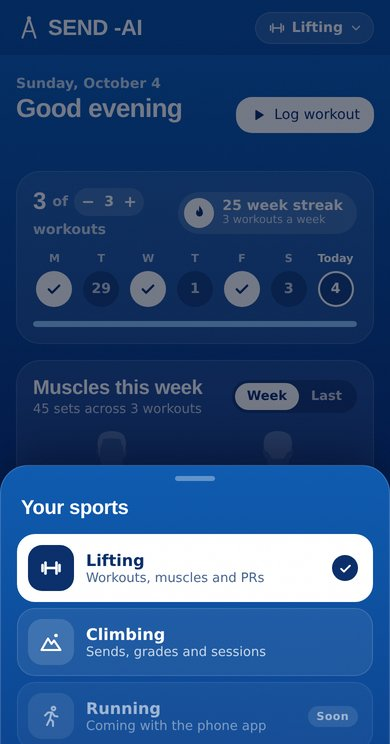
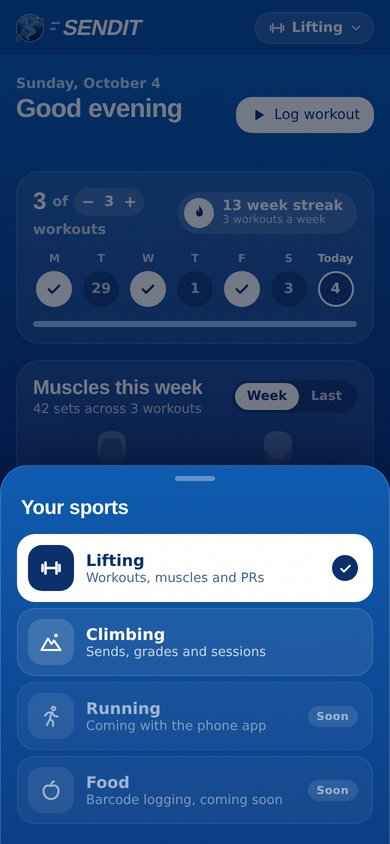
Refresh README screenshots, use the SendIt name and add the architecture diagram (#16)
* Refresh README screenshots and use the SendIt name

Claude-Session: https://claude.ai/code/session_014sYXKNF6Cz8zhASM6ZJgCE

* Add the architecture diagram to the README

Claude-Session: https://claude.ai/code/session_014sYXKNF6Cz8zhASM6ZJgCE

---------

diff --git a/README.md b/README.md
@@ -1,8 +1,8 @@
 <div align="center">
 
-<img src="public/icons/icon-512.png" width="112" alt="Send logo" />
+<img src="public/icons/icon-512.png" width="112" alt="SendIt logo" />
 
-# Send
+# SendIt
 
 **Every sport. One log. Keep the streak.**
 
@@ -11,13 +11,13 @@ Log a session in a few taps, then see your progress, PRs and every muscle you wo
 
 [**justsend.fit**](https://justsend.fit) · [Privacy](https://justsend.fit/privacy.html)
 
-<img src="docs/screenshots/landing.jpg" alt="Send landing page" width="820">
+<img src="docs/screenshots/landing.jpg" alt="SendIt landing page" width="820">
 
 </div>
 
 ## Why
 
-Most fitness apps cover one sport and charge a premium for the charts. Send puts all of your training in one place, keeps logging fast, and focuses on the analytics that tell you whether you are getting stronger.
+Most fitness apps cover one sport and charge a premium for the charts. SendIt puts all of your training in one place, keeps logging fast, and focuses on the analytics that tell you whether you are getting stronger.
 
 ## Screenshots
 
@@ -62,6 +62,18 @@ Most fitness apps cover one sport and charge a premium for the charts. Send puts
 | Hosting | Vercel, deploying `main` to [justsend.fit](https://justsend.fit) |
 | CI | GitHub Actions build check on every pull request |
 
+## How it works
+
+<a href="docs/architecture.png"><img src="docs/architecture.png" alt="Architecture diagram of SendIt" width="100%"></a>
+
+<sub>Click the diagram to open it full size. Generated with [GitDiagram](https://gitdiagram.com/suryaharikrishnan/send-ai).</sub>
+
+- **App and identity.** `main.jsx` starts the app and registers the offline cache. `App.jsx` checks for a Supabase session: signed-out visitors get the Google sign-in page (`Auth.jsx`), signed-in users get the sport dashboard (`Dashboard.jsx`), which owns the bottom tab bar and the sport switcher.
+- **Lifting.** The dashboard routes to the lifting home (`LiftHome.jsx`, with the muscle map from `BodyMap.jsx` and `bodyPaths.js`), the workout logger (`WorkoutLog.jsx`, with the exercise and duration pickers) and lift progress (`LiftProgress.jsx`, with `TrendChart.jsx`). The shared exercise library and all the math (PRs, estimated maxes, weekly volume) live in `lifting.js`.
+- **Climbing.** Climb logging, climbing analytics (`Analytics.jsx`) and the climbing home (`Home.jsx`) read and write the `climbs` table.
+- **Data.** Every screen talks to Supabase through one client in `supabase.js`. Row-level security in Postgres makes sure each person only ever sees their own rows.
+- **Optional features.** The AI coach calls `api/coach.js`, which checks who is asking and then asks Gemini. The news feed and videos come from `api/news.js` and `api/youtube.js`. These run as Vercel functions, so API keys never reach the browser.
+
 ## Project layout
 
 ```
@@ -69,7 +81,7 @@ api/          Vercel serverless functions (coach, news, youtube)
 public/       PWA manifest, service worker, icons, privacy page
 src/          React app (lifting, climbing, progress, navigation)
 supabase/     SQL to run in the Supabase SQL Editor
-docs/         README screenshots
+docs/         README screenshots and architecture diagram
 ```
 
 ## Run it locally
